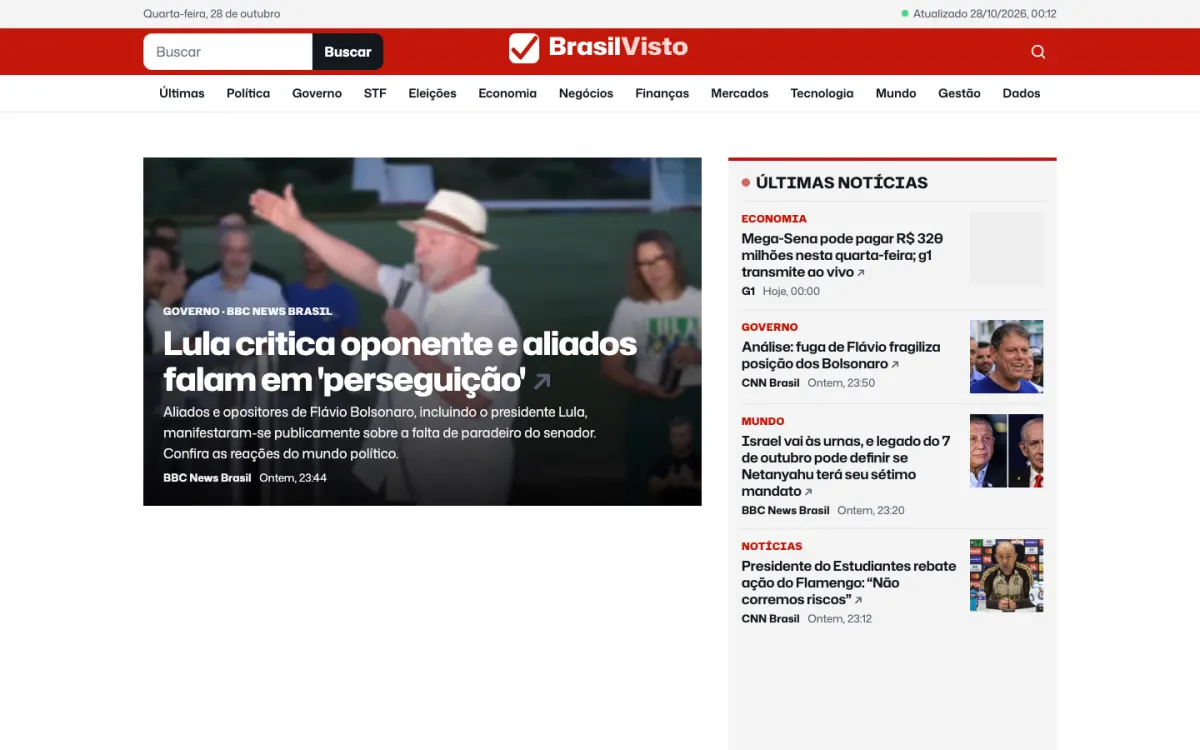
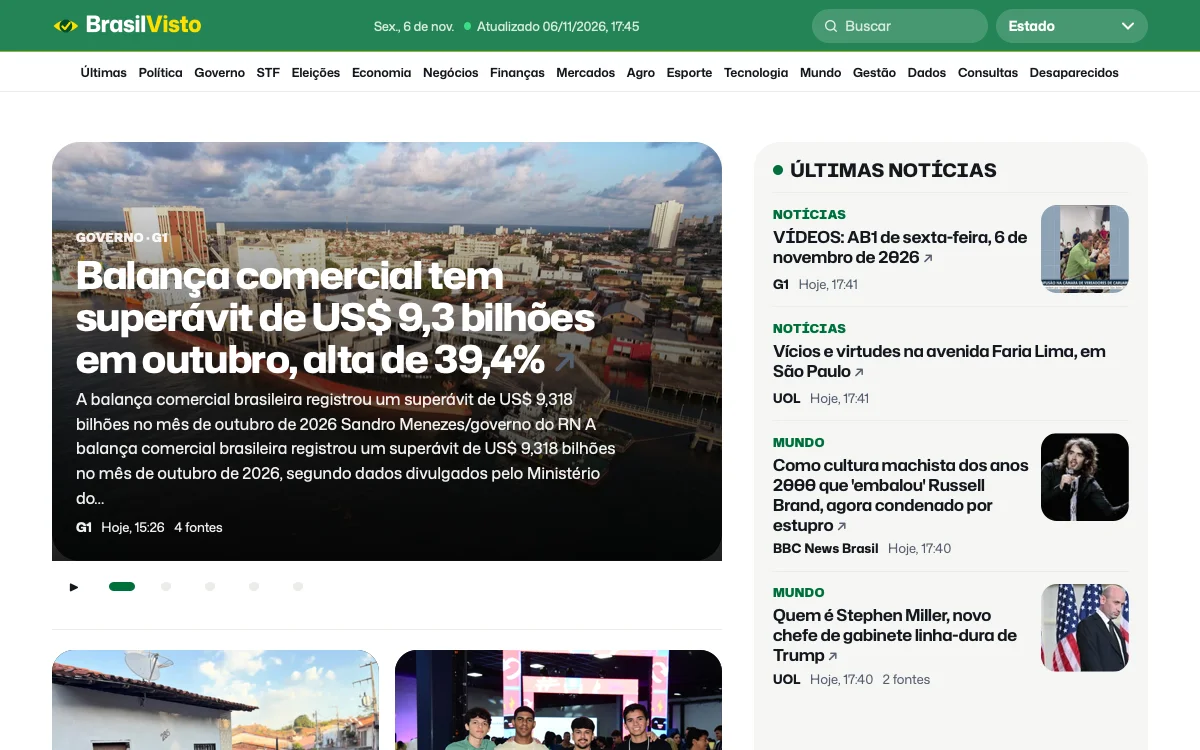
Sistemas: ícone e captura atuais do BrasilVisto e ícone atual da Bíblia

diff --git a/index.html b/index.html
@@ -140,7 +140,7 @@
       </section>
       <dialog class="apps-janela" id="apps-janela" aria-label="Todos os sistemas">
         <div class="apps-janela__topo"><h2>Meus sistemas</h2><button type="button" class="apps-janela__fechar" data-fechar-apps aria-label="Fechar"><svg viewBox="0 0 24 24" aria-hidden="true"><path d="M6 6l12 12M18 6L6 18" fill="none" stroke="currentColor" stroke-width="2.2" stroke-linecap="round"/></svg></button></div>
-        <div class="apps-janela__grade"><a class="ap-item" href="/apps/finagro/"><span class="ap-ic  "><img src="/assets/apps/finagro.webp" alt="" width="256" height="256" loading="lazy" decoding="async"></span><span class="ap-item__nome">Finagro</span><small>Agropecuária</small></a><a class="ap-item" href="/apps/midiamente/"><span class="ap-ic  "><img src="/assets/apps/midiamente.webp" alt="" width="256" height="256" loading="lazy" decoding="async"></span><span class="ap-item__nome">Mídiamente</span><small>Marketing</small></a><a class="ap-item" href="/apps/construsoft/"><span class="ap-ic  "><img src="/assets/apps/construsoft.webp" alt="" width="256" height="256" loading="lazy" decoding="async"></span><span class="ap-item__nome">ConstruSoft</span><small>Construção civil</small></a><a class="ap-item" href="/apps/frox/"><span class="ap-ic  "><img src="/assets/apps/frox.webp" alt="" width="256" height="256" loading="lazy" decoding="async"></span><span class="ap-item__nome">FroX</span><small>Transporte e frotas</small></a><a class="ap-item" href="/apps/softpay/"><span class="ap-ic  "><img src="/assets/apps/softpay.webp" alt="" width="256" height="256" loading="lazy" decoding="async"></span><span class="ap-item__nome">SoftPay</span><small>Comércio e varejo</small></a><a class="ap-item" href="/apps/hotelgestao/"><span class="ap-ic ap-ic--claro "><img src="/assets/apps/hotelgestao.svg" alt="" width="256" height="256" loading="lazy" decoding="async"></span><span class="ap-item__nome">HotelGestão</span><small>Hotéis e pousadas</small></a><a class="ap-item" href="/apps/pdf-sem-cadastro/"><span class="ap-ic  "><img src="/assets/apps/pdf.webp" alt="" width="256" height="256" loading="lazy" decoding="async"></span><span class="ap-item__nome">PDF sem Cadastro</span><small>Ferramentas</small></a><a class="ap-item" href="/apps/biblia/"><span class="ap-ic  "><img src="/assets/apps/biblia.webp" alt="" width="256" height="256" loading="lazy" decoding="async"></span><span class="ap-item__nome">Bíblia Sagrada: Dia e Noite</span><small>Leitura e rotina</small></a><a class="ap-item" href="/apps/seuplantao/"><span class="ap-ic  "><img src="/assets/apps/seuplantao.webp" alt="" width="256" height="256" loading="lazy" decoding="async"></span><span class="ap-item__nome">Seu Plantão</span><small>Saúde</small></a><a class="ap-item" href="/apps/advogestao/"><span class="ap-ic  "><img src="/assets/apps/advocacia.webp" alt="" width="256" height="256" loading="lazy" decoding="async"></span><span class="ap-item__nome">AdvoGestão</span><small>Advocacia</small></a><a class="ap-item" href="/apps/brasilvisto/"><span class="ap-ic ap-ic--claro "><img src="/assets/apps/brasilvisto.svg" alt="" width="256" height="256" loading="lazy" decoding="async"></span><span class="ap-item__nome">BrasilVisto</span><small>Notícias e dados</small></a></div>
+        <div class="apps-janela__grade"><a class="ap-item" href="/apps/finagro/"><span class="ap-ic  "><img src="/assets/apps/finagro.webp" alt="" width="256" height="256" loading="lazy" decoding="async"></span><span class="ap-item__nome">Finagro</span><small>Agropecuária</small></a><a class="ap-item" href="/apps/midiamente/"><span class="ap-ic  "><img src="/assets/apps/midiamente.webp" alt="" width="256" height="256" loading="lazy" decoding="async"></span><span class="ap-item__nome">Mídiamente</span><small>Marketing</small></a><a class="ap-item" href="/apps/construsoft/"><span class="ap-ic  "><img src="/assets/apps/construsoft.webp" alt="" width="256" height="256" loading="lazy" decoding="async"></span><span class="ap-item__nome">ConstruSoft</span><small>Construção civil</small></a><a class="ap-item" href="/apps/frox/"><span class="ap-ic  "><img src="/assets/apps/frox.webp" alt="" width="256" height="256" loading="lazy" decoding="async"></span><span class="ap-item__nome">FroX</span><small>Transporte e frotas</small></a><a class="ap-item" href="/apps/softpay/"><span class="ap-ic  "><img src="/assets/apps/softpay.webp" alt="" width="256" height="256" loading="lazy" decoding="async"></span><span class="ap-item__nome">SoftPay</span><small>Comércio e varejo</small></a><a class="ap-item" href="/apps/hotelgestao/"><span class="ap-ic ap-ic--claro "><img src="/assets/apps/hotelgestao.svg" alt="" width="256" height="256" loading="lazy" decoding="async"></span><span class="ap-item__nome">HotelGestão</span><small>Hotéis e pousadas</small></a><a class="ap-item" href="/apps/pdf-sem-cadastro/"><span class="ap-ic  "><img src="/assets/apps/pdf.webp" alt="" width="256" height="256" loading="lazy" decoding="async"></span><span class="ap-item__nome">PDF sem Cadastro</span><small>Ferramentas</small></a><a class="ap-item" href="/apps/biblia/"><span class="ap-ic  "><img src="/assets/apps/biblia.webp" alt="" width="256" height="256" loading="lazy" decoding="async"></span><span class="ap-item__nome">Bíblia Sagrada: Dia e Noite</span><small>Leitura e rotina</small></a><a class="ap-item" href="/apps/seuplantao/"><span class="ap-ic  "><img src="/assets/apps/seuplantao.webp" alt="" width="256" height="256" loading="lazy" decoding="async"></span><span class="ap-item__nome">Seu Plantão</span><small>Saúde</small></a><a class="ap-item" href="/apps/advogestao/"><span class="ap-ic  "><img src="/assets/apps/advocacia.webp" alt="" width="256" height="256" loading="lazy" decoding="async"></span><span class="ap-item__nome">AdvoGestão</span><small>Advocacia</small></a><a class="ap-item" href="/apps/brasilvisto/"><span class="ap-ic  "><img src="/assets/apps/brasilvisto.webp" alt="" width="256" height="256" loading="lazy" decoding="async"></span><span class="ap-item__nome">BrasilVisto</span><small>Notícias e dados</small></a></div>
       </dialog>
       <!-- apps:fim -->
 

diff --git a/apps/brasilvisto/index.html b/apps/brasilvisto/index.html
@@ -22,7 +22,7 @@
 <main class="ap">
   <a class="ap-voltar" href="/" aria-label="Voltar ao início"><svg viewBox="0 0 24 24" aria-hidden="true"><path d="M15 5l-7 7 7 7" fill="none" stroke="currentColor" stroke-width="2.2" stroke-linecap="round" stroke-linejoin="round"/></svg><span>Início</span></a>
   <header class="ap-topo">
-    <span class="ap-ic ap-ic--claro ap-ic--grande"><img src="/assets/apps/brasilvisto.svg" alt="" width="256" height="256" loading="lazy" decoding="async"></span>
+    <span class="ap-ic  ap-ic--grande"><img src="/assets/apps/brasilvisto.webp" alt="" width="256" height="256" loading="lazy" decoding="async"></span>
     <div class="ap-tit">
       <h1>BrasilVisto</h1>
       <p>Política, economia e dados, com a fonte à vista</p>
